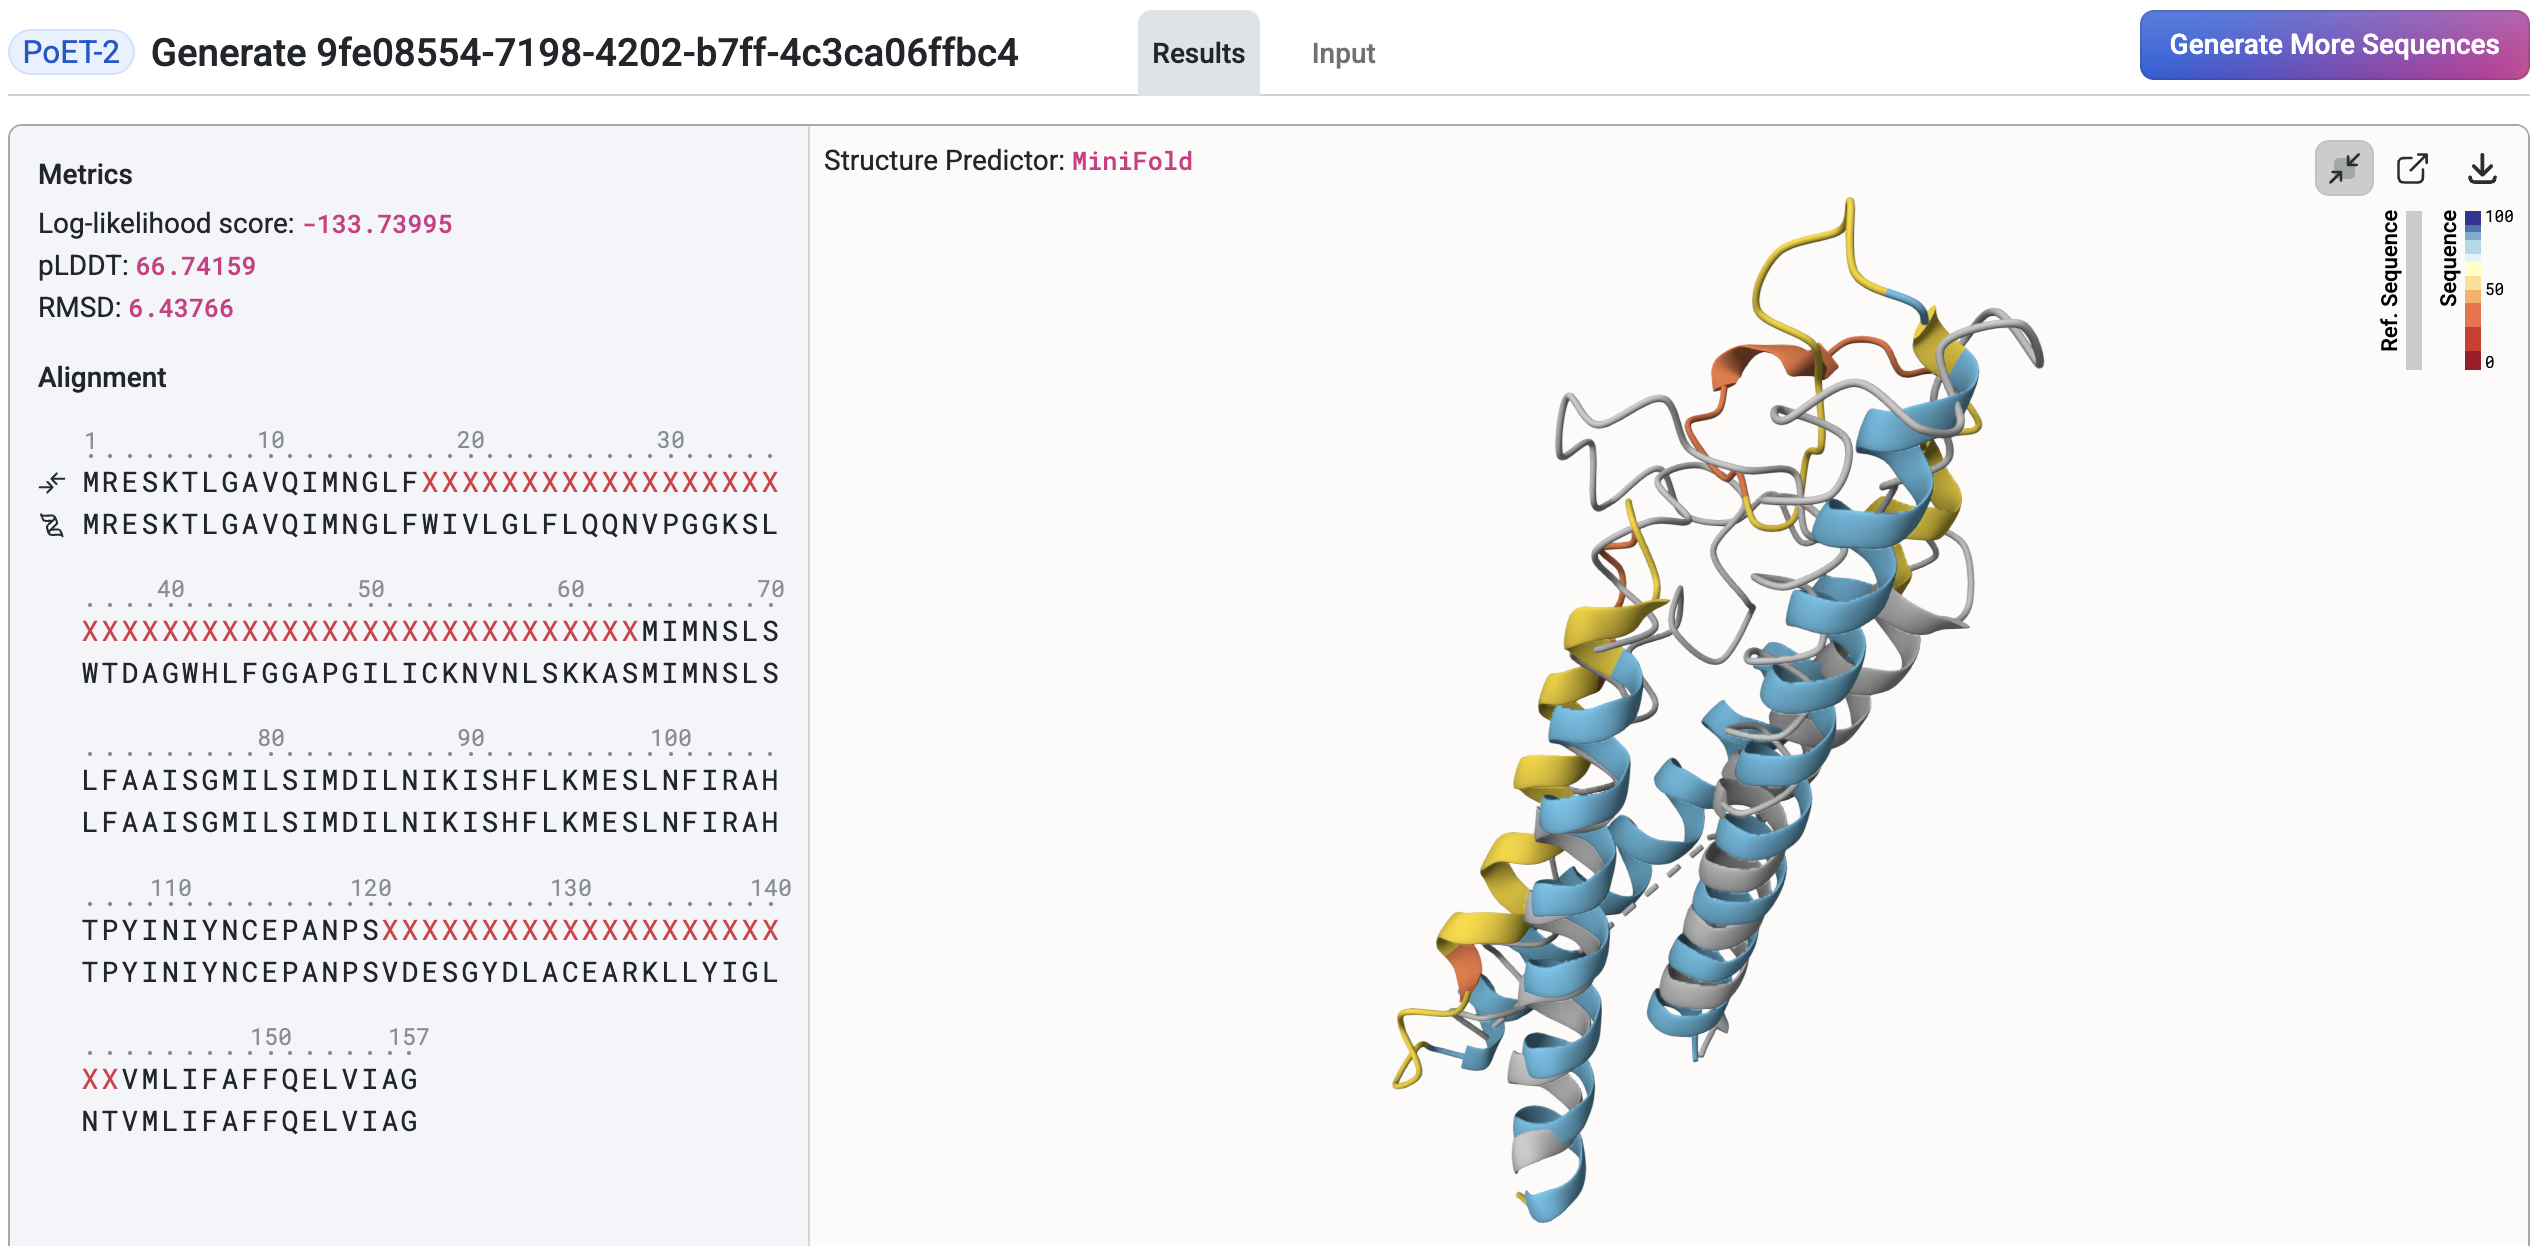
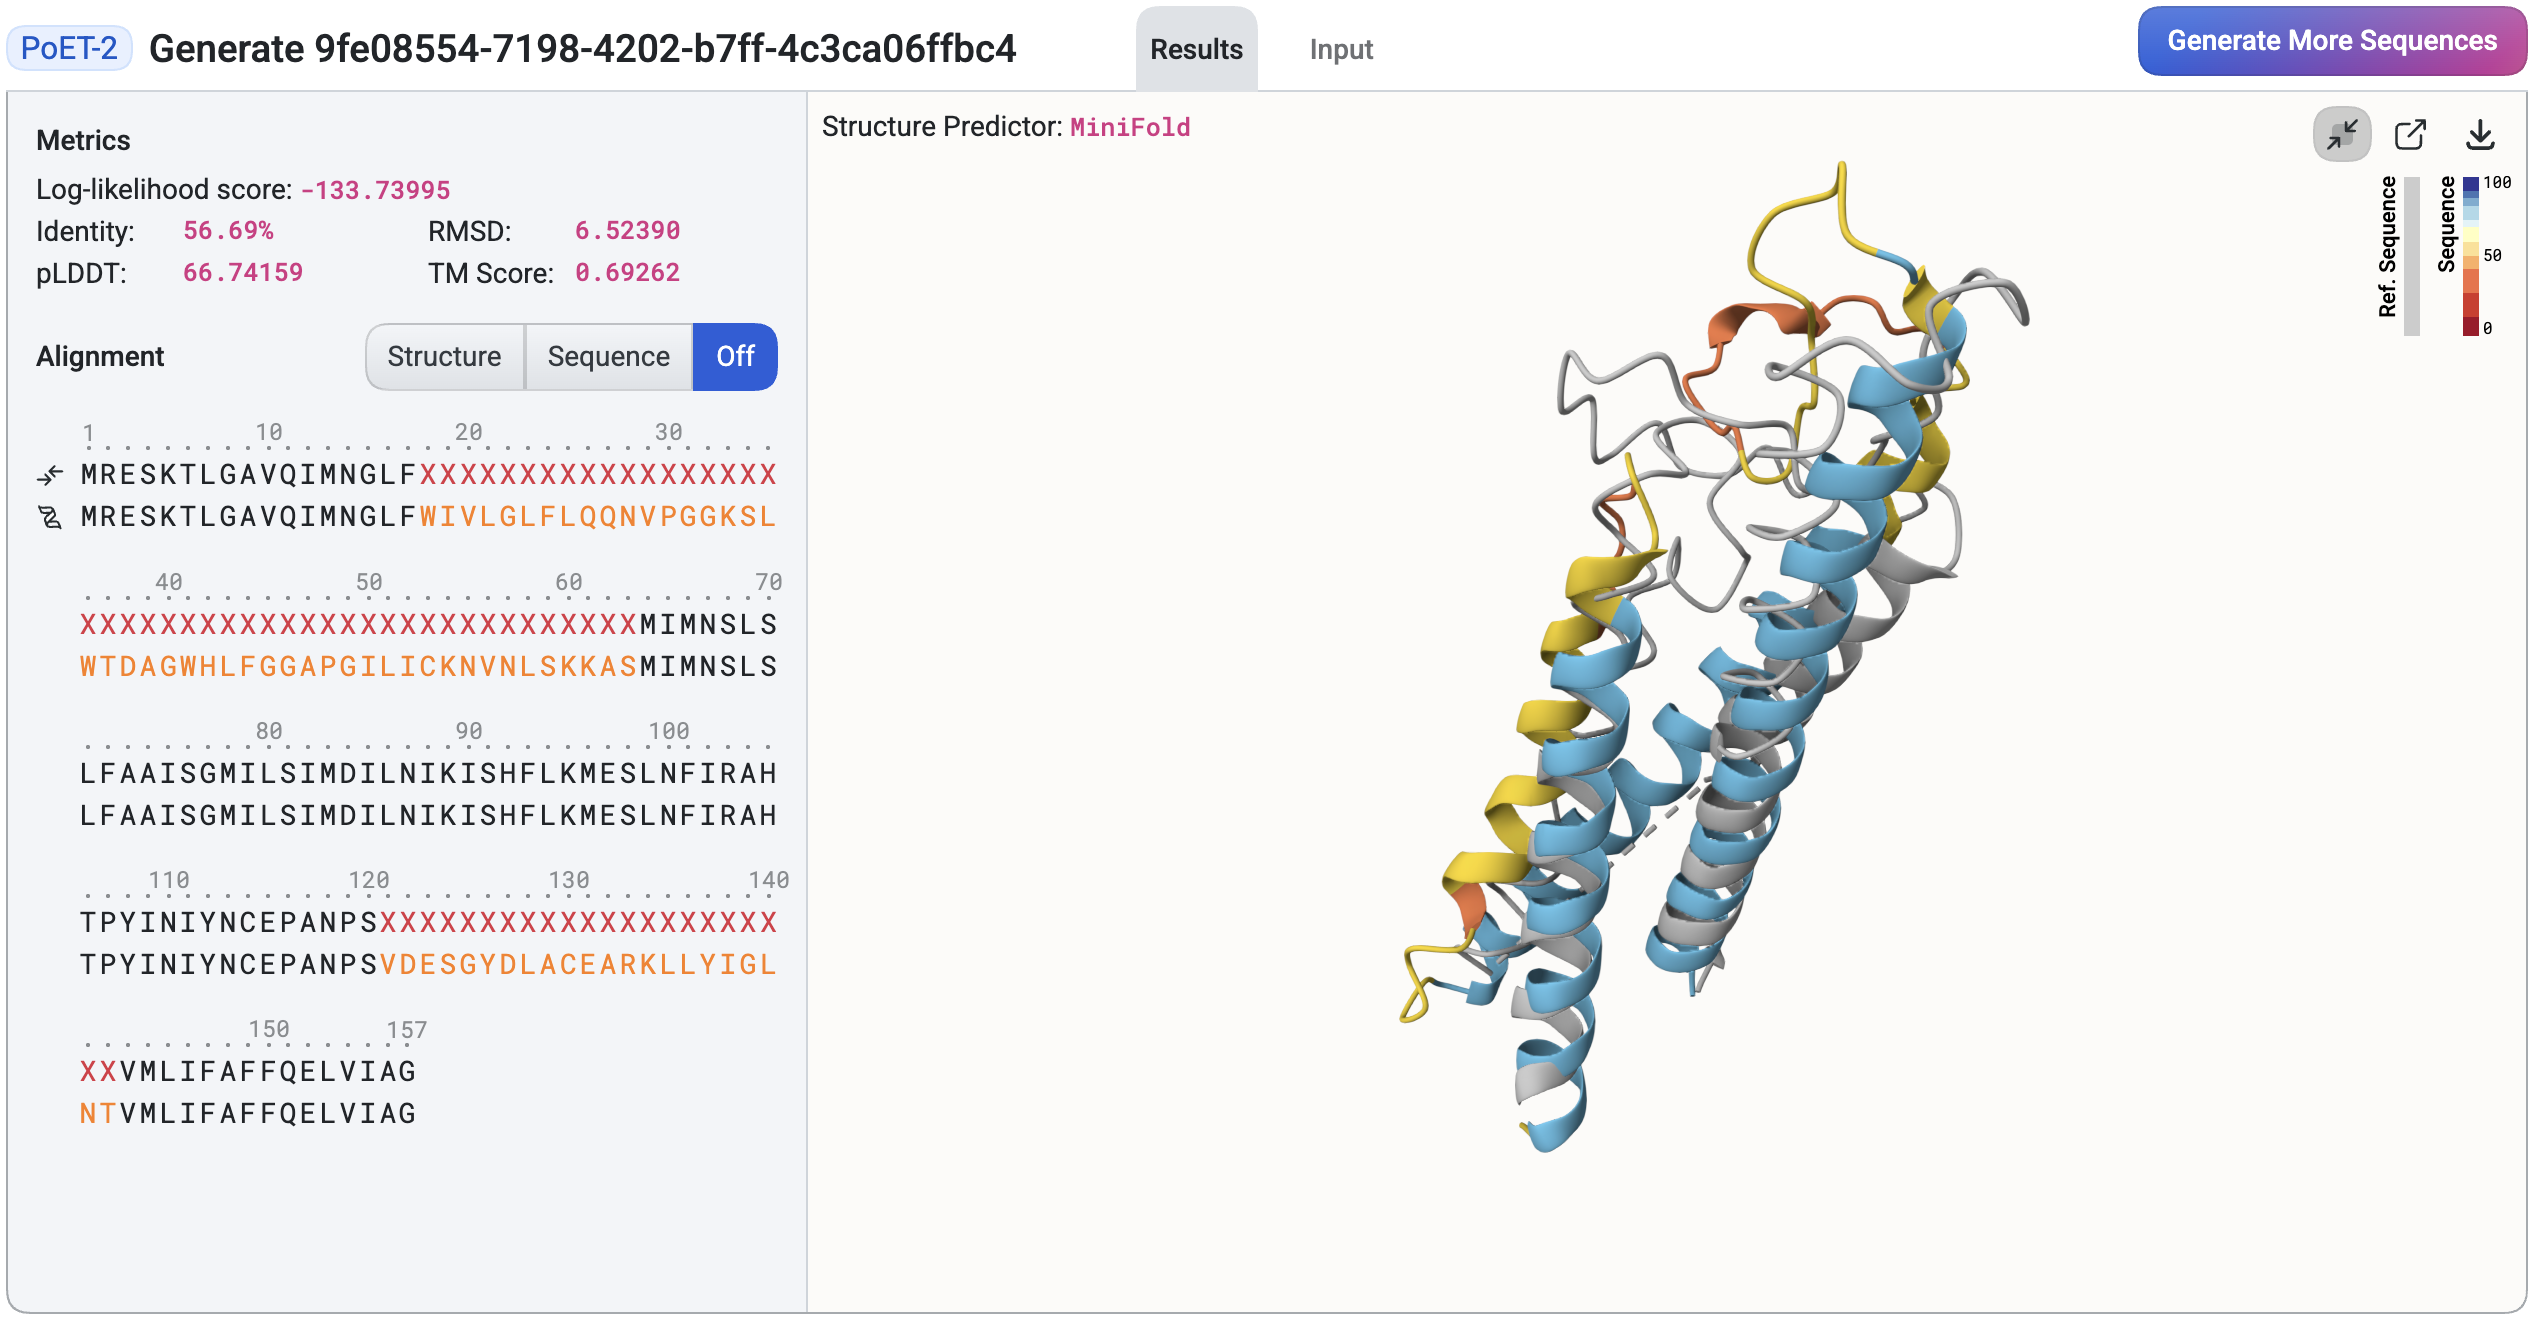
updated docs: Interpreting PoET Results Table

diff --git a/source/web-app/poet/results-table.rst b/source/web-app/poet/results-table.rst
@@ -8,9 +8,9 @@ This tutorial explains how to interpret the results generated by the PoET Genera
 Results Table
 ^^^^^^^^^^^^^^
 
-Your results are presented in a table, with each generated sequence assigned a log-likelihood score. This score reflects how well the generated sequence fits the prompt: a higher score indicates a better fit.
+Your results are presented in a table, with each generated sequence assigned a log-likelihood score and other metrics, such as Identity, pLDDT, RMSD, TM Score, depending on the selected Alignment Method. You can customize the displayed columns using the right-click menu from the table header.
 
-Right-click any sequence to access local fitness landscapes through the **Run Substitution Analysis** menu. You can also sort your results and export them using the **Export** button.
+Right-click any sequence to access local fitness landscapes through the **Run Substitution Analysis** menu. You can also sort, filter your results and save them to file using the **Export** button.
 
 .. image:: ../../_static/tools/poet/results-table.png
    :alt: Results Table
@@ -21,14 +21,32 @@ Structure Prediction and Comparison
 
 Once the structure prediction job completes, the structure viewer will appear on the right side of the page. The prediction model can be changed via the **Structure Predictor** dropdown located above the viewer. Hover over a sequence in the results table to preview and compare its structure against the query structure. The viewer also displays key metrics, including:
 
-- **pLDDT (predicted Local Distance Difference Test)**: A per-residue confidence score (commonly scaled from 0-100 or 0.0-1.0) indicating how reliable each residue's predicted position is.
+- **Log-likelihood score**: Reflects how well the generated sequence fits the prompt. A higher score indicates a better fit.
+
+- **Identity**: The percentage of matching amino acids between the generated sequence and the reference across the aligned region.
+
+- **pLDDT (predicted Local Distance Difference Test)**: A per-residue confidence score (commonly scaled from 0-100) indicating how reliable each residue's predicted position is.
 
 - **RMSD (Root Mean Square Deviation)**: A measure of structural similarity between two molecules, typically comparing backbone atoms. Lower RMSD values indicate greater structural similarity.
+
+- **TM Score (Template Modeling score)**: A measure of the similarity between two protein structures. Higher means more similar.
 
 Click a sequence to expand the structure viewer, which will overlay the results table. In this view, you can examine detailed metrics and sequence-to-prompt alignment for the selected sequence.
 
 .. image:: ../../_static/tools/poet/results-table-expanded.png
    :alt: Sequence structure viewer
+
+
+Change Alignment Method
+^^^^^^^^^^^^^^^^^^^^^^^^^^^^^^^^^^^^
+
+The alignment method used for structural comparisons can be changed via the **Alignment Method** toggle buttons located above the results table. Available methods may include:
+
+- **Structure**: Structures are superimposed with TM-Align algorithm, and this superposition is used to compute structure similarity metrics, such as RMSD and TM Score.
+
+- **Sequence**: Sequences are aligned with Needleman-Wunsch algorithm, and then structures are superimposed via Kabsch algorithm using the sequence alignment. This superposition is then used to compute structure similarity metrics.
+
+- **Off**: Sequences are aligned with Needleman-Wunsch algorithm if they are same length as the prompt; otherwise, no alignment is performed, some metrics such as Identity, RMSD and TM Score are not available.
 
 
 Change Reference Structure
